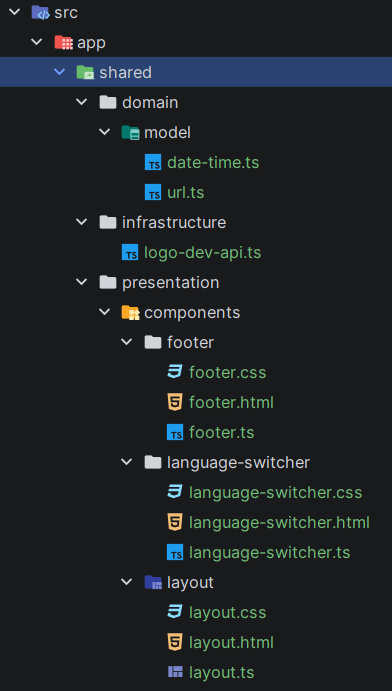
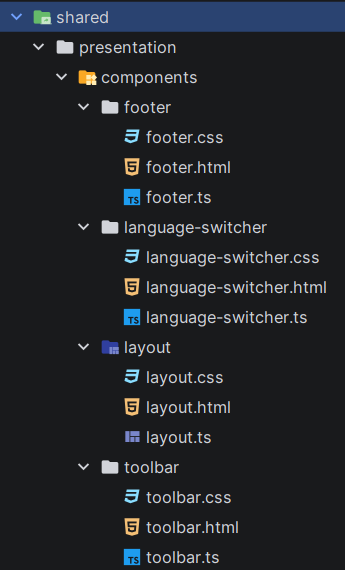
docs: update 5

Changed region(s): [[0.0, 0.0, 1.0, 1.0], [0.2319, 0.8053, 0.2609, 0.8351], [0.2319, 0.5965, 0.2609, 0.6263]]

diff --git a/manual/MANUAL.md b/manual/MANUAL.md
@@ -29,12 +29,9 @@ ng version
 Para empezar, hay que ejecutar:
 
 ```bash
-ng g class shared/domain/model/date-time
-ng g class shared/domain/model/url
-
-ng g class shared/infrastructure/logo-dev-api
-
+ng add @angular/material
 ng g c shared/presentation/components/footer
+ng g c shared/presentation/components/toolbar
 ng g c shared/presentation/components/language-switcher
 ng g c shared/presentation/components/layout
 ```
@@ -44,11 +41,11 @@ Así debe quedar, después de ejecutar estos comandos y eliminar algunos archivo
 <img src="imagenes/shared-structure.png">
 
 Luego, tienes que desarrollar estos archivos:
-* Los archivos de domain/model: "date-time.ts" y "url.ts" (Estos son opcionales)
 * Los archivos de "footer" y luego conectarlos con "app.html (Para ver si funciona)
 ```bash
 <app-footer/>
 ```
+* Luego, desarrollas los arhivos de "toolbar".
 
 ### Medical
 
@@ -59,11 +56,9 @@ Antes, con la base de datos que te dieron, copias y pegas los datos dentro de "h
 Luego, ejecutas esto y eliminas el archivo que termina en ".spec.ts":
 ```bash
 ng g class medical/domain/model/specialty --type=entity
-ng g class medical/domain/model/BoardCertification --type=entity
-ng g class medical/domain/model/KeyProcedure --type=entity      
 ```
 
-Así deben quedar:
+Así deben quedar (Incluso si hay sub clases, solhaz un entity del principal):
 
 <img src="imagenes/medical_structure1.png">
 
@@ -83,11 +78,8 @@ Así deben quedar los 2 archivos:
 Añades el archivo "top-headlines-response", ejecutas esto y eliminas el archivo que termina en ".spec.ts":
 
 ```bash
+ng g interface medical/infrastructure/specialty-response
 ng g service medical/infrastructure/specialty-assembler
-ng g interface medical/infrastructure/board-certification-response
-ng g service medical/infrastructure/board-certification-assembler
-ng g interface medical/infrastructure/key-procedure-response
-ng g service medical/infrastructure/key-procedure-assembler
 ng g service medical/infrastructure/medical-api
 ```
 
@@ -100,3 +92,4 @@ Después debes ejecutar este comando y, como siempre, eliminar el archivo que te
 ```bash
 ng g service medical/application/medical --type=store
 ```
+
